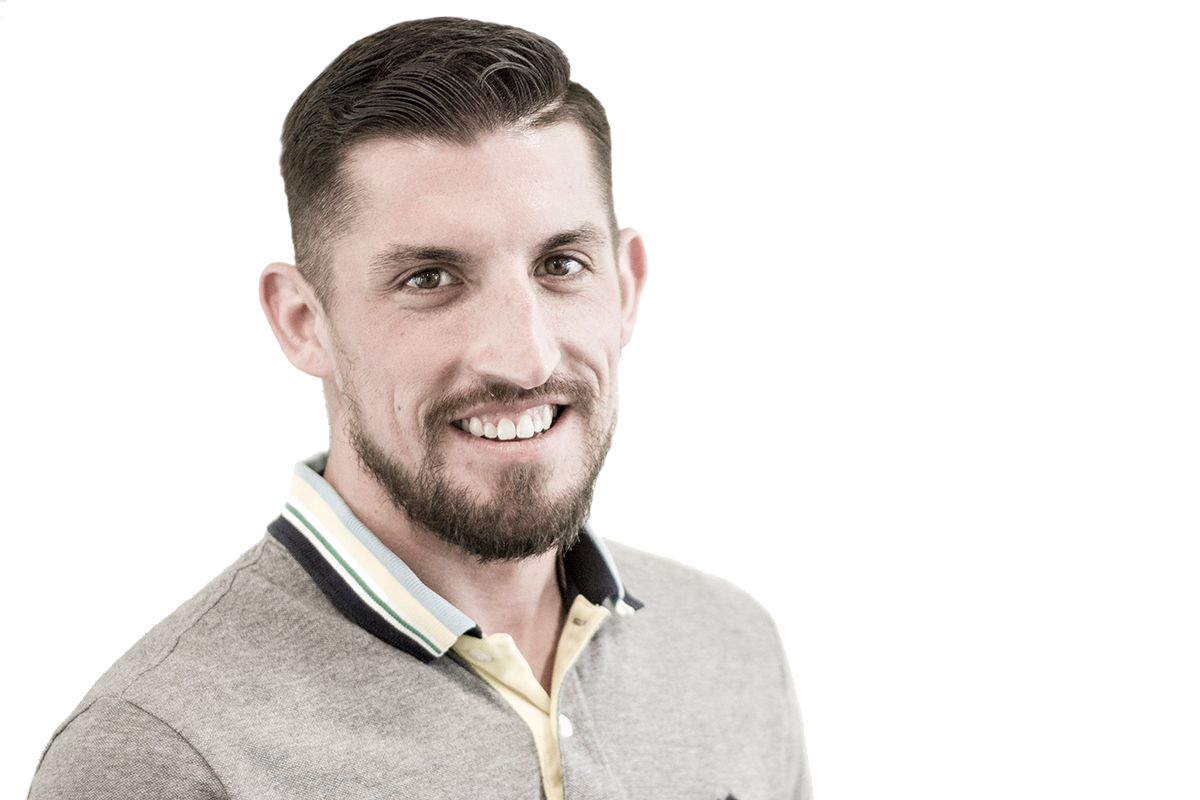
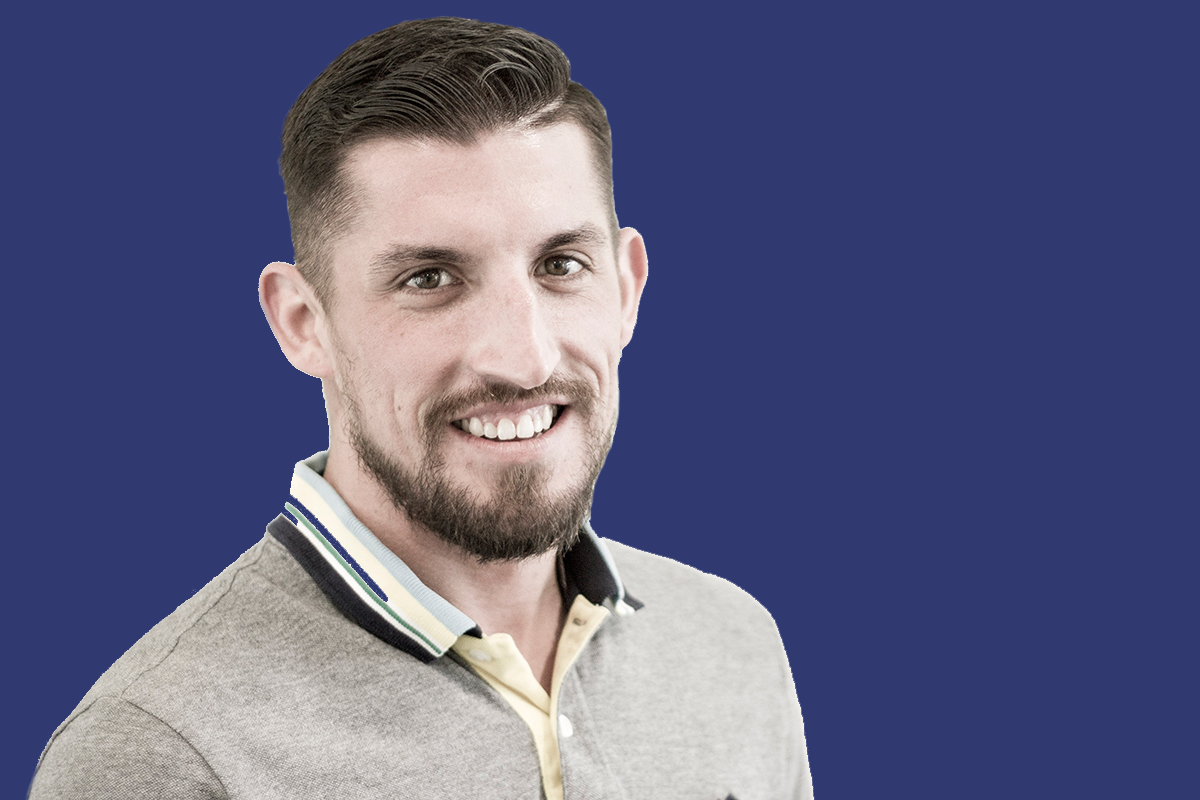
nailed down the colors for the glitch animation.

diff --git a/components/homepage-hero.vue b/components/homepage-hero.vue
@@ -79,7 +79,6 @@
         setTimeout(() => {
           this.showHeadshot = false
         }, 5000)
-        console.log('i made it here')
       }
     }
   }
@@ -87,11 +86,12 @@
 
 <style lang="scss" scoped>
   .homepage-hero {
+    background: #303970;
     min-height: 75vh;
     display: grid;
     grid-template-columns: repeat(12, 1fr);
     grid-template-rows: auto;
-    margin-top: 75px;
+    margin-top: 72px;
     .hero-image,
     .glitch-image-container {
       display: none;
@@ -115,10 +115,10 @@
         }
       }
       .hero-copy__small {
-        color: #54bad8;
+        color: #56A68D;
         font-family: 'Montserrat', sans-serif;
         font-size: 18px;
-        font-weight: bold;
+        font-weight: 700;
         text-transform: uppercase;
         margin-bottom: 20px;
         &:after {
@@ -127,17 +127,17 @@
         }
       }
       .hero-copy__large {
-        color: $dk-grey;
+        color: white;
         font-family: 'Montserrat', sans-serif;
         font-size: 46px;
-        font-weight: normal;
+        font-weight: 400;
         line-height: 52px;
         margin-bottom: 0px;
         padding: 0;
         margin: 0 0 0 -5px;
       }
       .hero-copy__normal {
-        color: $dk-grey;
+        color: white;
         font-family: 'Montserrat', sans-serif;
         font-size: 26px;
         font-weight: 400;
@@ -146,15 +146,15 @@
 
         strong {
           font-weight: 700;
-          color: #54bad8;
+          color: #56A68D;
         }
 
         .hero-copy__link {
           display: inline-block;
           font-size: 26px;
           margin-top: 10px;
-          color: $dk-grey;
-          text-decoration: underline #54bad8;
+          color: white;
+          text-decoration: underline #56A68D;
         }
       }
     }
@@ -193,22 +193,8 @@
         grid-column-end: 13;
         padding: 25px;
         padding: 45px 10px;
-        h1 {
-          &.empty-styles {
-            margin: 0;
-            padding: 0;
-            font-weight: 400;
-            line-height: 0;
-            display: inline-grid;
-            display: -ms-inline-grid;
-          }
-        }
         .hero-copy__small {
-          color: #54bad8;
-          font-family: 'Montserrat', sans-serif;
           font-size: 18px;
-          font-weight: bold;
-          text-transform: uppercase;
           margin-bottom: 20px;
           &:after {
             content: "\A";
@@ -216,101 +202,29 @@
           }
         }
         .hero-copy__large {
-          color: $dk-grey;
-          font-family: 'Montserrat', sans-serif;
           font-size: 52px;
-          font-weight: normal;
           line-height: 66px;
           margin-bottom: 0px;
           padding: 0;
           margin: 0 0 0 -5px;
         }
         .hero-copy__normal {
-          color: $dk-grey;
-          font-family: 'Montserrat', sans-serif;
           font-size: 32px;
-          font-weight: 400;
           line-height: 46px;
           margin-bottom: 0px;
-
-          strong {
-            font-weight: 700;
-            color: #54bad8;
-          }
 
           .hero-copy__link {
             display: inline-block;
             font-size: 26px;
             margin-top: 10px;
-            color: $dk-grey;
-            text-decoration: underline #54bad8;
           }
         }
       }
-      &.glitch-0 { // Endo Men's Health Desktop
-        background-color: #6F86D6;
-        .hero-copy {
-          .hero-copy__small {
-            color: #48C6EF;
-          }
-          .hero-copy__large {
-            color: white;
-          }
-          .hero-copy__normal {
-            color: white;
-            strong {
-              color: #48C6EF;
-            }
-            .hero-copy__link {
-              color: white;
-              text-decoration: underline #48C6EF;
-            }
-          }
-        }
-      }
-      &.glitch-1 { // Endo Video Library iPad
-        background-color: #ECA5B3;
-        .hero-copy {
-          .hero-copy__small {
-            color: #256EB0;
-          }
-          .hero-copy__large {
-            color: white;
-          }
-          .hero-copy__normal {
-            color: white;
-            strong {
-              color: #256EB0;
-            }
-            .hero-copy__link {
-              color: white;
-              text-decoration: underline #256EB0;
-            }
-          }
-        }
-      }
-      &.glitch-2 { // Merion Commercial
-        background-color: #9D50BB;
-        .hero-copy {
-          .hero-copy__small {
-            color: #560678;
-          }
-          .hero-copy__large {
-            color: white;
-          }
-          .hero-copy__normal {
-            color: white;
-            strong {
-              color: #560678;
-            }
-            .hero-copy__link {
-              color: white;
-              text-decoration: underline #560678;
-            }
-          }
-        }
-      }
-      &.glitch-3 { // Xtra Kickstarts iPad
+      &.glitch-0, // Endo Men's Health Desktop
+      &.glitch-1, // Endo Video Library iPad
+      &.glitch-2, // Merion Commercial
+      &.glitch-3,  // Xtra Kickstarts iPad
+      &.glitch-4 { // USARL Desktop
         background-color: #303970;
         .hero-copy {
           .hero-copy__small {
@@ -331,32 +245,12 @@
           }
         }
       }
-      &.glitch-4 { // USARL Desktop
-        background-color: #fA709A;
-        .hero-copy {
-          .hero-copy__small {
-            color: #FEE140;
-          }
-          .hero-copy__large {
-            color: white;
-          }
-          .hero-copy__normal {
-            color: white;
-            strong {
-              color: #FEE140;
-            }
-            .hero-copy__link {
-              color: white;
-              text-decoration: underline #FEE140;
-            }
-          }
-        }
-      }
     }
   }
 
   @media (min-width: 992px) {
     .homepage-hero {
+      min-height: 80vh;
       grid-template-rows: repeat(4, 1fr);
       grid-template-areas:
       "hs hs hs hs hs hs hs . . . . ."

diff --git a/nuxt.config.js b/nuxt.config.js
@@ -94,7 +94,7 @@ module.exports = {
 
   webfontloader: {
     google: {
-      families: ['Karla','Montserrat']
+      families: ['Karla','Montserrat:400,700']
     }
   },
 
